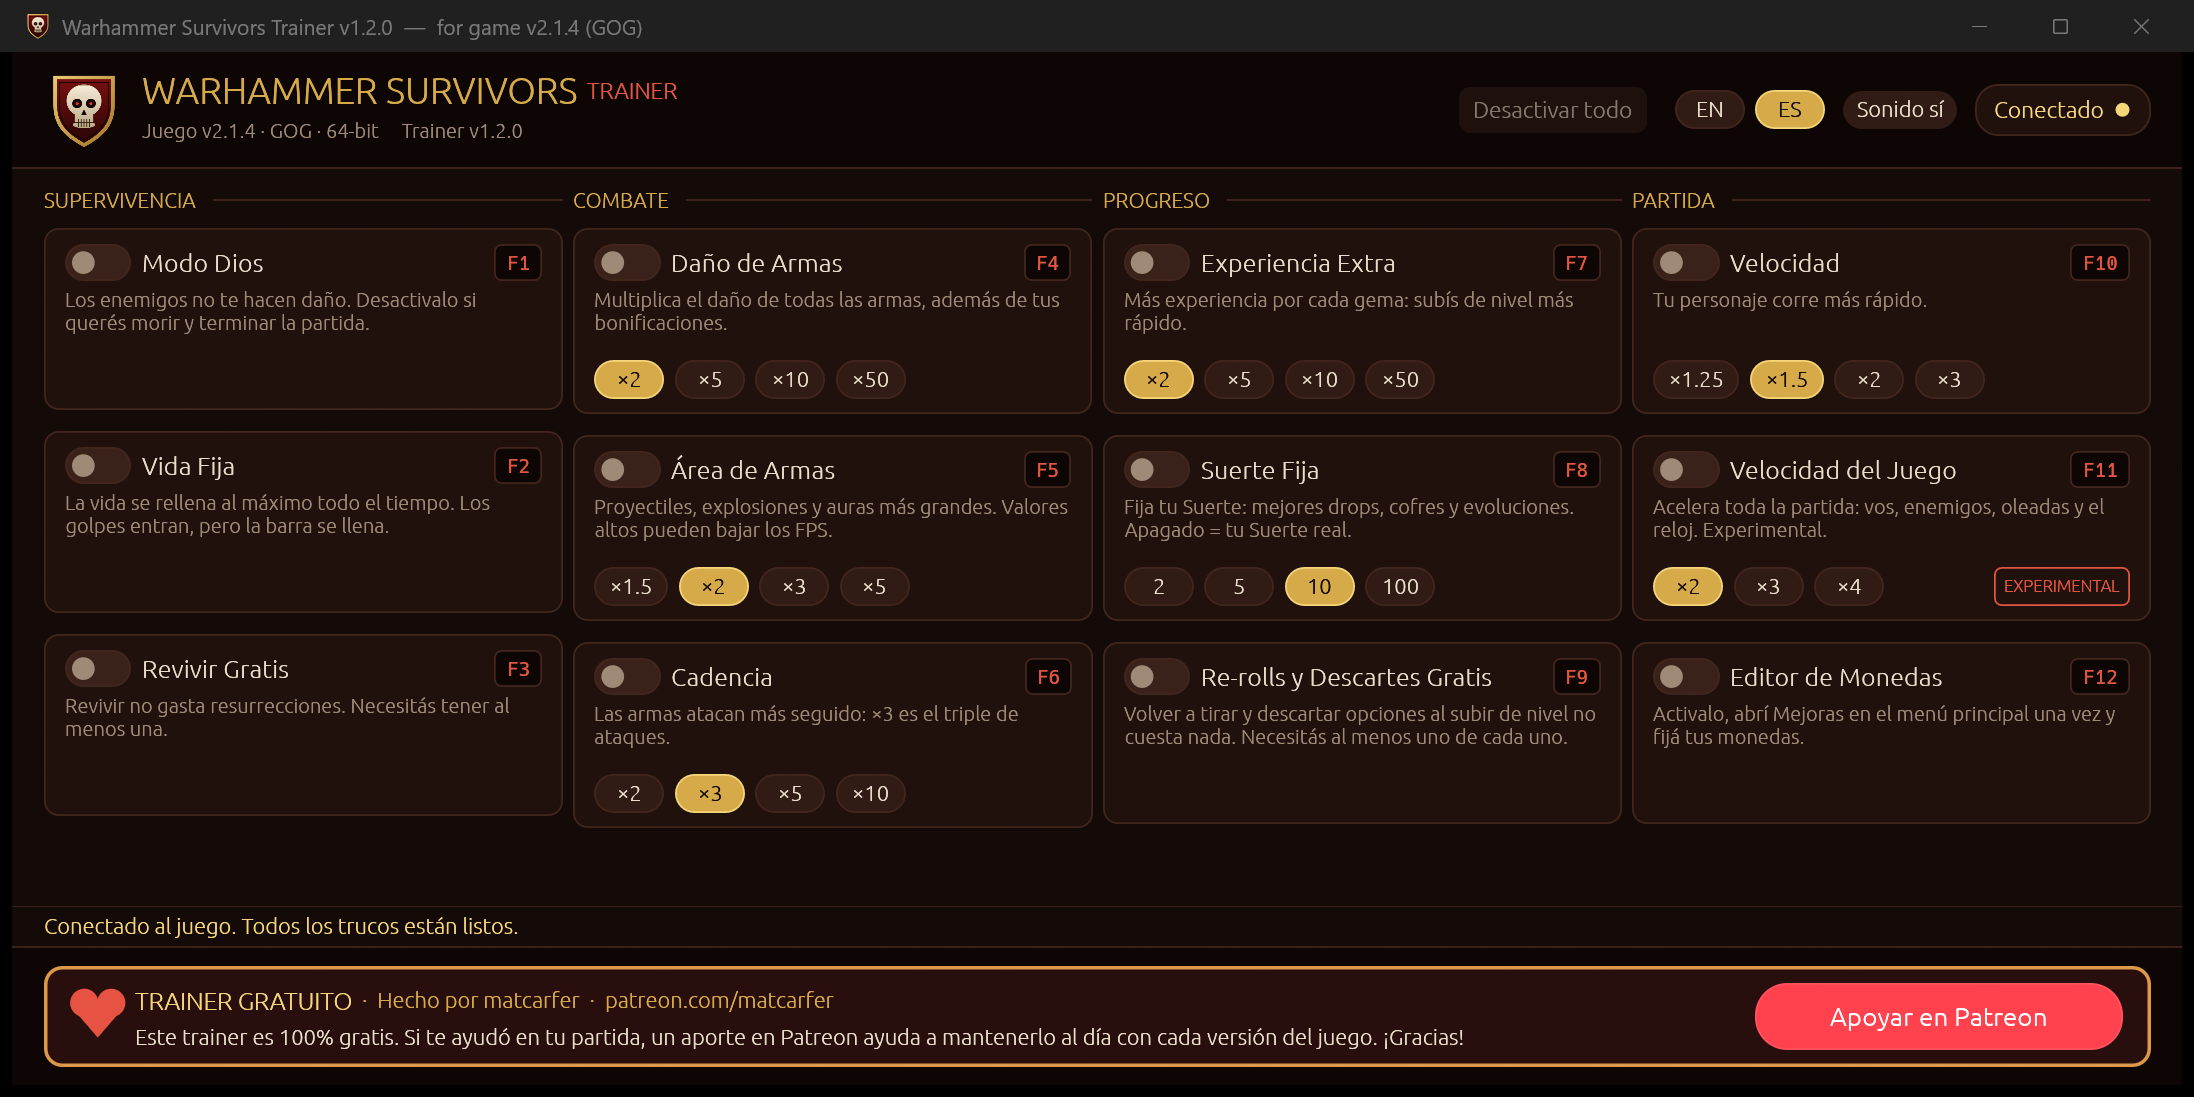
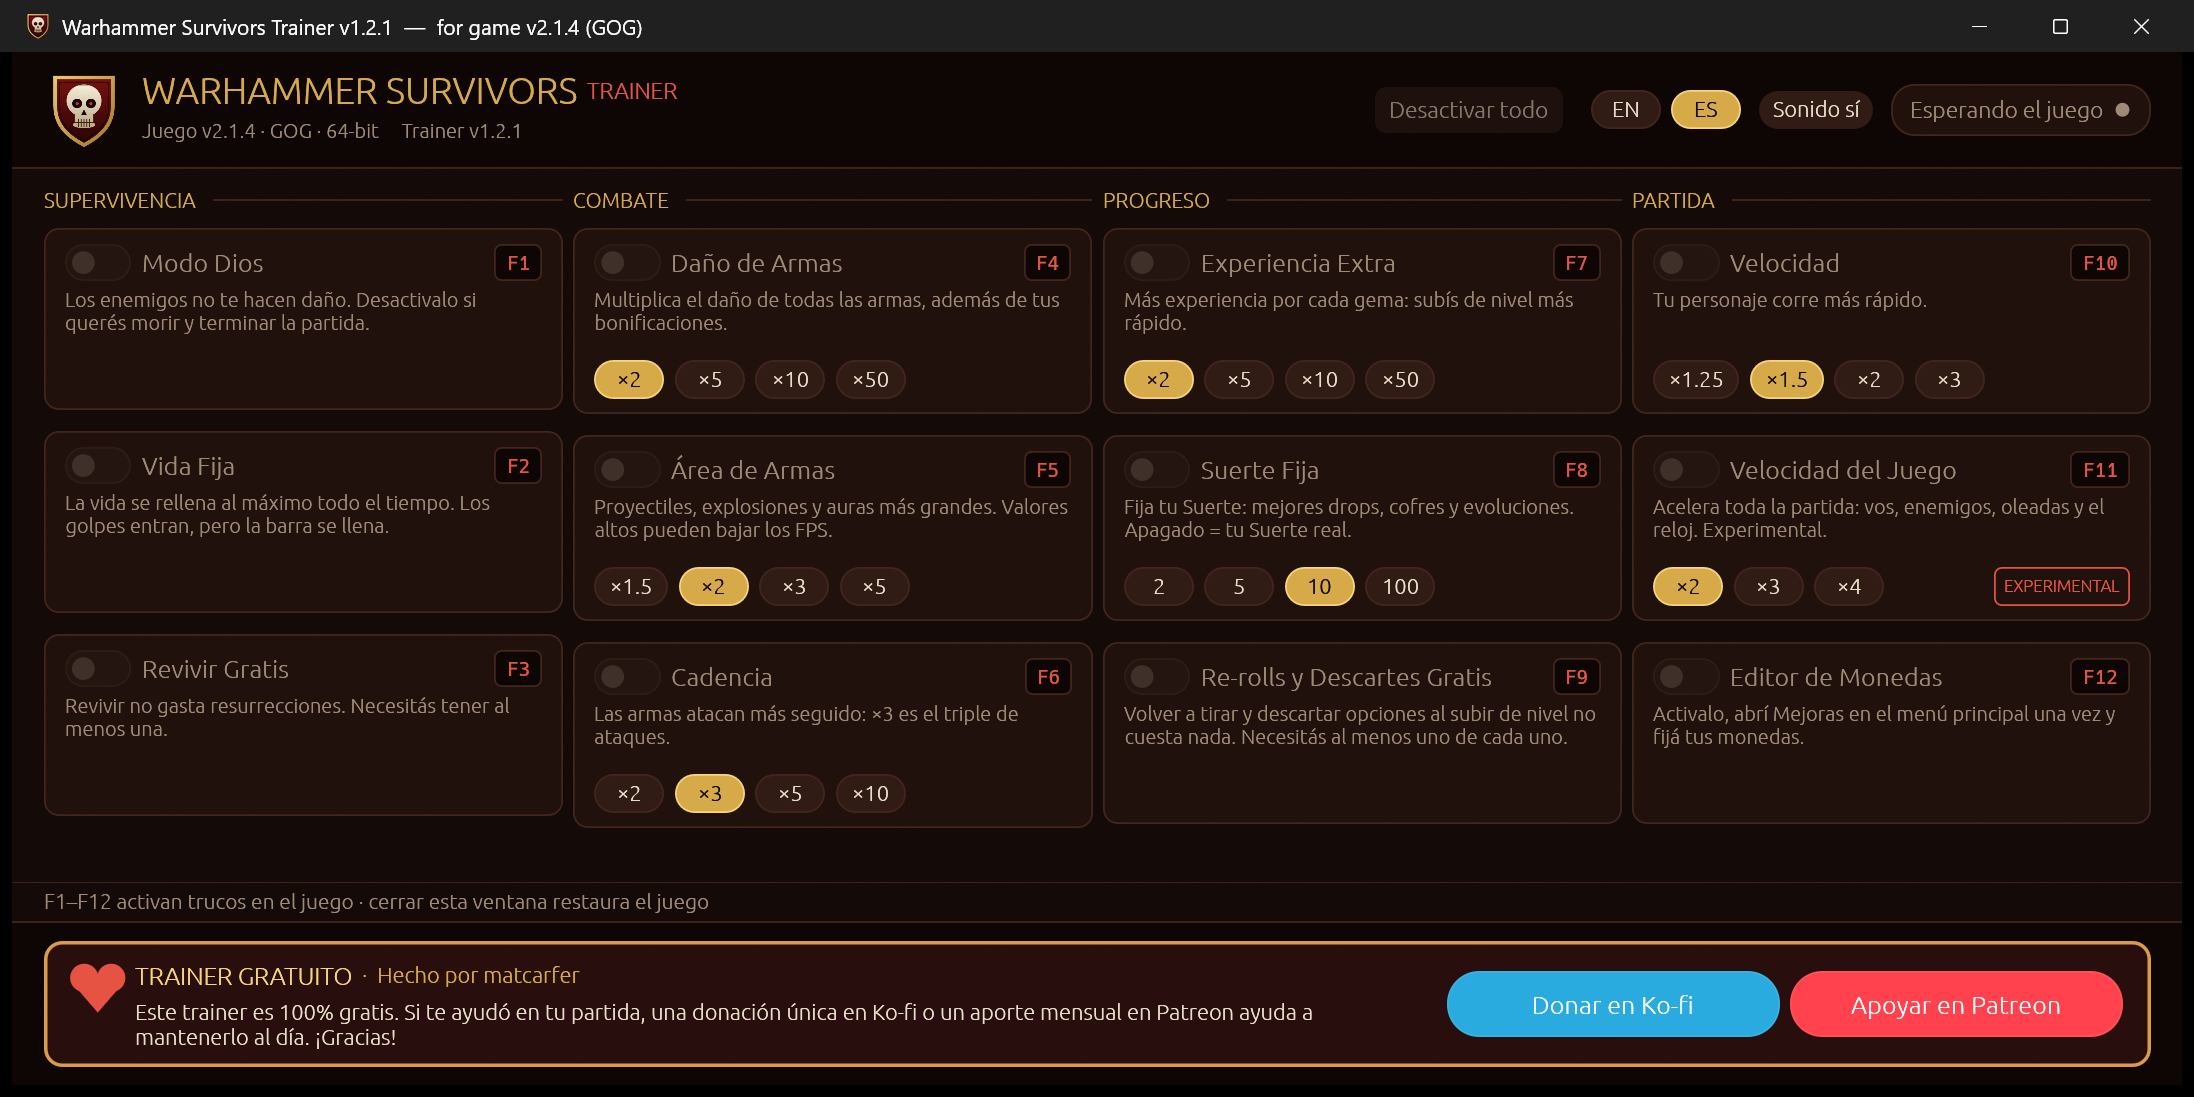
v1.2.1: add Ko-fi link and updated screenshot

diff --git a/README.md b/README.md
@@ -12,6 +12,8 @@
 <p align="center">
   <a href="https://github.com/matcarfer/warhammer-survivors-trainer/releases/latest"><b>⬇ Download the latest version</b></a>
   &nbsp;·&nbsp;
+  <a href="https://ko-fi.com/matcarfer"><b>☕ Tip on Ko-fi</b></a>
+  &nbsp;·&nbsp;
   <a href="https://www.patreon.com/matcarfer"><b>❤ Support on Patreon</b></a>
 </p>
 
@@ -68,7 +70,7 @@ Only download it from this page and compare the file's SHA-256 with the one list
 the release notes:
 
 ```powershell
-Get-FileHash .\WarhammerSurvivors-v2.1.4-Trainer-v1.2.0.exe -Algorithm SHA256
+Get-FileHash .\WarhammerSurvivors-v2.1.4-Trainer-v1.2.1.exe -Algorithm SHA256
 ```
 
 ## Safety
@@ -95,7 +97,7 @@ Hacé una copia de tu partida guardada antes de usarlo.
 
 ## Support
 
-This trainer is **free** and made in my spare time. If it saved your run, a tip on
+This trainer is **free** and made in my spare time. If it saved your run, a one-time tip on **[Ko-fi](https://ko-fi.com/matcarfer)** or monthly support on
 **[Patreon](https://www.patreon.com/matcarfer)** helps me keep it updated for new game
 versions. Thank you! — *matcarfer*
 
